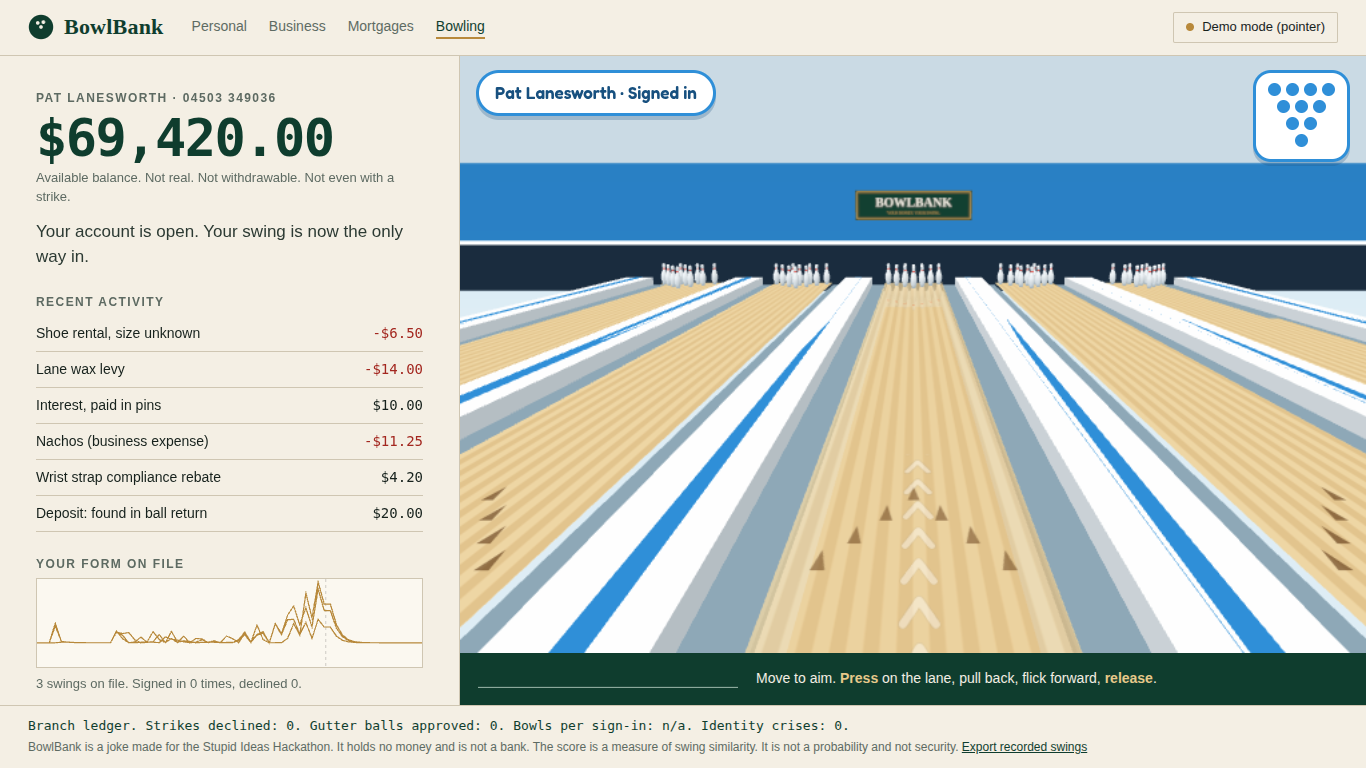
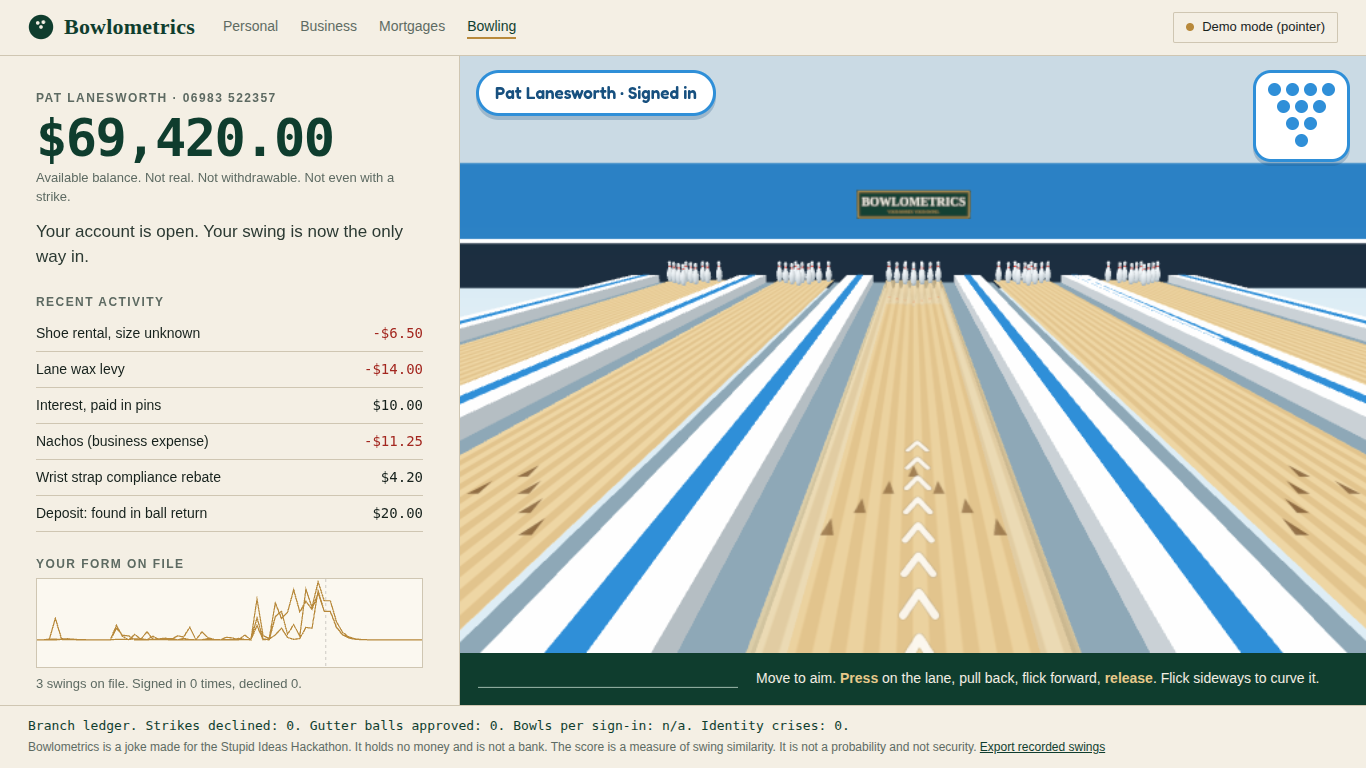
feat(web): steer the ball with the remote's tilt and wrist twist
A remote rolled to one side at the release sends the ball that way. A twist between the press and the release makes it curve near the pins. Both are read from the sideways share of the accelerometer force, or from the gyro when a MotionPlus is attached. Small tilts are ignored so a straight swing stays straight.

diff --git a/web/src/game/throw.js b/web/src/game/throw.js
@@ -1,7 +1,26 @@
-// Turns a swing into a bowling throw. This is about power and direction only.
+// Turns a swing into a bowling throw: speed, direction and curve.
 // It shares nothing with the identity check, so pins and identity stay independent.
 
 const clamp = (v, lo, hi) => Math.min(hi, Math.max(lo, v));
+
+// Flip to -1 if a clockwise wrist twist sends the ball left.
+export const TILT_SIGN = 1;
+
+// Small tilts are ignored, so a straight swing stays straight.
+const dead = (v, zone) => (Math.abs(v) <= zone ? 0 : v - Math.sign(v) * zone);
+
+// How much of the force sits on the remote's sideways axis between two times, from -1 to 1.
+// Zero means the remote is level with the swing. It grows as the remote is rolled to one side.
+function sideShare(samples, from, to) {
+  let side = 0;
+  let total = 0;
+  for (const r of samples) {
+    if (r[0] < from || r[0] > to) continue;
+    side += r[1];
+    total += Math.hypot(r[1], r[2], r[3]);
+  }
+  return total > 0 ? clamp(side / total, -1, 1) : 0;
+}
 
 export function throwFromSwing(swing, aim = 0) {
   const from = swing.releaseT - 350;
@@ -9,8 +28,6 @@ export function throwFromSwing(swing, aim = 0) {
   let peak = 0;
   let twist = 0;
   let nt = 0;
-  let side = 0;
-  let ns = 0;
   let pushSum = 0;
   let np = 0;
   for (const r of swing.samples) {
@@ -18,22 +35,26 @@ export function throwFromSwing(swing, aim = 0) {
     const m = Math.hypot(r[1], r[2], r[3]);
     if (m > peak) peak = m;
     if (r[0] >= swing.releaseT - 250 && r[0] <= swing.releaseT) { pushSum += Math.abs(m - 1); np++; }
-    if (r[0] >= swing.releaseT - 120) {
-      if (r[6] != null) { twist += r[6]; nt++; }
-      side += r[1]; ns++;
-    }
+    if (r[0] >= swing.releaseT - 120 && r[6] != null) { twist += r[6]; nt++; }
   }
   // Real Wii swings peak between about 2 and 6 g. The mean adds how long the push lasted.
   const push = np ? pushSum / np : 0;
   const power = clamp(0.65 * (peak - 1.6) / 4.2 + 0.35 * push / 1.6, 0, 1);
-  // Wrist twist from the gyro when there is one. Without it, only a small sideways drift,
-  // so the ball goes where the aim line points.
-  const hook = nt ? clamp(twist / nt / 500, -1, 1) : clamp((ns ? side / ns : 0) * 0.1, -0.25, 0.25);
+
+  // Tilt: how the remote is rolled at the release. A tilted release sends the ball off to that side.
+  const tiltEnd = TILT_SIGN * sideShare(swing.samples, swing.releaseT - 150, swing.releaseT);
+  const tiltStart = TILT_SIGN * sideShare(swing.samples, swing.pressT - 200, swing.pressT + 60);
+  const tilt = dead(tiltEnd, 0.06);
+  // Spin: how far the wrist turned during the swing. It makes the ball curve near the pins.
+  // The gyro measures it directly when a MotionPlus is attached.
+  const spin = nt ? clamp(twist / nt / 500, -1, 1) : clamp(dead(tiltEnd - tiltStart, 0.08) * 1.7, -1, 1);
+
   return {
     speed: 4.4 + 6.2 * power,
     startX: clamp(aim, -1, 1) * 0.36,
-    angle: clamp(aim, -1, 1) * 0.022,
-    hook,
+    angle: clamp(aim, -1, 1) * 0.022 + clamp(tilt * 0.075, -0.06, 0.06),
+    hook: spin,
     power,
+    tilt,
   };
 }

diff --git a/web/src/main.js b/web/src/main.js
@@ -188,9 +188,9 @@ function hint() {
   if (recorder.state === 'swing') { el.innerHTML = '<b>Reading your swing.</b> Release to let go of the ball.'; return; }
   if (state.mode === 'wii') {
     const ir = source.irActive && source.irActive();
-    el.innerHTML = `${ir ? 'Point at the lane to aim.' : 'Aim with the D-pad.'} <b>Hold B</b>, swing, <b>release B</b>. Wear the wrist strap.`;
+    el.innerHTML = `${ir ? 'Point at the lane to aim.' : 'Aim with the D-pad.'} <b>Hold B</b>, swing, <b>release B</b>. Twist your wrist to curve it. Wear the wrist strap.`;
   } else {
-    el.innerHTML = 'Move to aim. <b>Press</b> on the lane, pull back, flick forward, <b>release</b>.';
+    el.innerHTML = 'Move to aim. <b>Press</b> on the lane, pull back, flick forward, <b>release</b>. Flick sideways to curve it.';
   }
 }
 
@@ -230,12 +230,19 @@ function drawRack() {
   dots.forEach((d, i) => d.classList.toggle('down', Boolean(down && down[i])));
 }
 
-function showPower(power) {
+function showPower(thrown) {
   const el = $('power');
   el.hidden = false;
   const bar = el.querySelector('b');
+  const dot = el.querySelector('u');
   bar.style.width = '0%';
-  requestAnimationFrame(() => { bar.style.width = `${Math.round(8 + power * 92)}%`; });
+  dot.style.left = '50%';
+  // The spin marker sits in the middle for a straight ball and slides to the side it will curve to.
+  const curve = Math.max(-1, Math.min(1, thrown.hook + thrown.tilt * 2));
+  requestAnimationFrame(() => {
+    bar.style.width = `${Math.round(8 + thrown.power * 92)}%`;
+    dot.style.left = `${50 + curve * 46}%`;
+  });
 }
 
 const CONFETTI = ['#ffd23f', '#ff6b6b', '#2f8fd8', '#3ccf91', '#ffffff', '#ff9f1c'];
@@ -303,7 +310,7 @@ async function onSwing(swing) {
   state.replaying = false;
   state.lastSource = src;
   const thrown = throwFromSwing(swing, aim);
-  showPower(thrown.power);
+  showPower(thrown);
   const pins = await lane.play(thrown);
   const sig = makeSignature(swing);
   // The game celebrates first. The bank gives its verdict a moment later.

diff --git a/web/src/style.css b/web/src/style.css
@@ -304,12 +304,11 @@ input[type="text"]:focus, .btn:focus-visible, .mode:focus-visible { outline: 2px
   position: absolute;
   left: 16px;
   bottom: 14px;
-  display: flex;
-  align-items: center;
-  gap: 10px;
-  padding: 6px 12px 6px 14px;
+  display: grid;
+  gap: 5px;
+  padding: 8px 14px 9px;
   border: 3px solid #2f8fd8;
-  border-radius: 999px;
+  border-radius: 18px;
   background: #fff;
   color: #17507f;
   font-weight: 600;
@@ -317,8 +316,25 @@ input[type="text"]:focus, .btn:focus-visible, .mode:focus-visible { outline: 2px
   box-shadow: 0 4px 0 rgba(23, 80, 127, 0.25);
   animation: pop 0.3s cubic-bezier(.3,1.7,.5,1);
 }
-.power i { width: 150px; height: 12px; border-radius: 999px; background: #d5e3ec; overflow: hidden; }
+.power div { display: flex; align-items: center; gap: 10px; }
+.power span { width: 46px; }
+.power i { position: relative; width: 150px; height: 12px; border-radius: 999px; background: #d5e3ec; overflow: hidden; }
 .power b { display: block; height: 100%; width: 0; border-radius: 999px; background: #ff9f1c; transition: width 0.5s cubic-bezier(.2,.8,.2,1); }
+/* The spin track has a mark in the middle and a dot that slides to the side the ball will curve to. */
+.power i.spin { overflow: visible; background: linear-gradient(90deg, #d5e3ec 49%, #17507f 49%, #17507f 51%, #d5e3ec 51%); }
+.power u {
+  position: absolute;
+  top: -3px;
+  left: 50%;
+  width: 18px;
+  height: 18px;
+  margin-left: -9px;
+  border-radius: 50%;
+  background: #2f8fd8;
+  border: 3px solid #fff;
+  box-shadow: 0 1px 0 rgba(23, 80, 127, 0.4);
+  transition: left 0.5s cubic-bezier(.3,1.5,.5,1);
+}
 
 .banner {
   position: absolute;

diff --git a/web/index.html b/web/index.html
@@ -31,7 +31,10 @@
         <div class="hud" aria-hidden="true">
           <div id="tag" class="nametag"></div>
           <div id="rack" class="rack"></div>
-          <div id="power" class="power" hidden><span>Power</span><i><b></b></i></div>
+          <div id="power" class="power" hidden>
+            <div><span>Power</span><i><b></b></i></div>
+            <div><span>Spin</span><i class="spin"><u></u></i></div>
+          </div>
           <div id="banner" class="banner" hidden></div>
         </div>
         <div id="stamp" class="stamp" hidden></div>

diff --git a/README.md b/README.md
@@ -46,7 +46,7 @@ More on the remote, calibration and fixes: [`docs/hardware.md`](docs/hardware.md
 
 ## Usage
 
-- **Wii remote**: point at the lane to aim, or use the D-pad. Hold B, swing, release B. The A button presses the main button on screen. Wear the wrist strap.
+- **Wii remote**: point at the lane to aim, or use the D-pad. Hold B, swing, release B. A remote tilted to one side at the release sends the ball that way, and a wrist twist during the swing makes it curve. The A button presses the main button on screen. Wear the wrist strap.
 - **Demo mode**: move the pointer to aim. Press on the lane, pull back, flick forward, release.
 - **Switch modes**: click the button at the top right. The app never switches to demo mode by itself when the remote drops.
 - **Sample customers**: sign in as Gary Gutterman, get declined, then click "Replay Gary's own recorded swing". His swing is made by a formula and always lands in the gutter.
